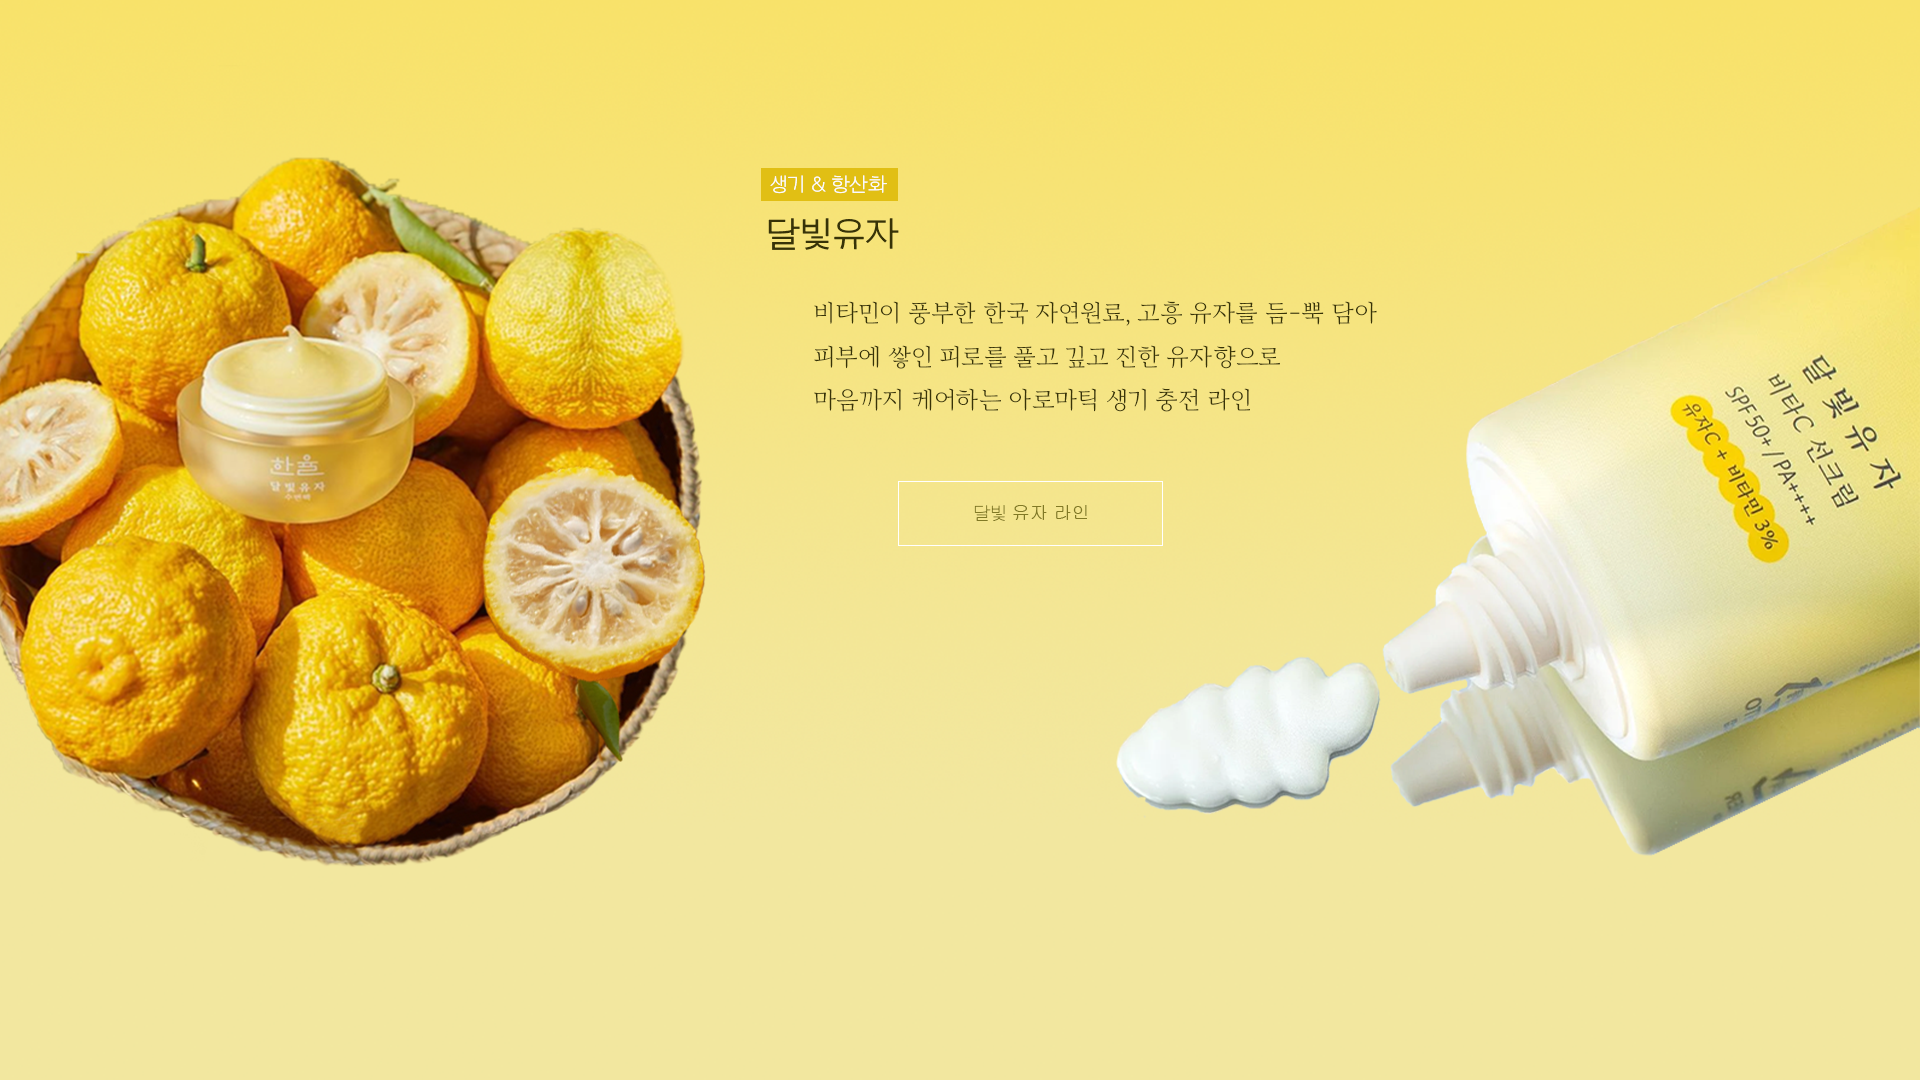
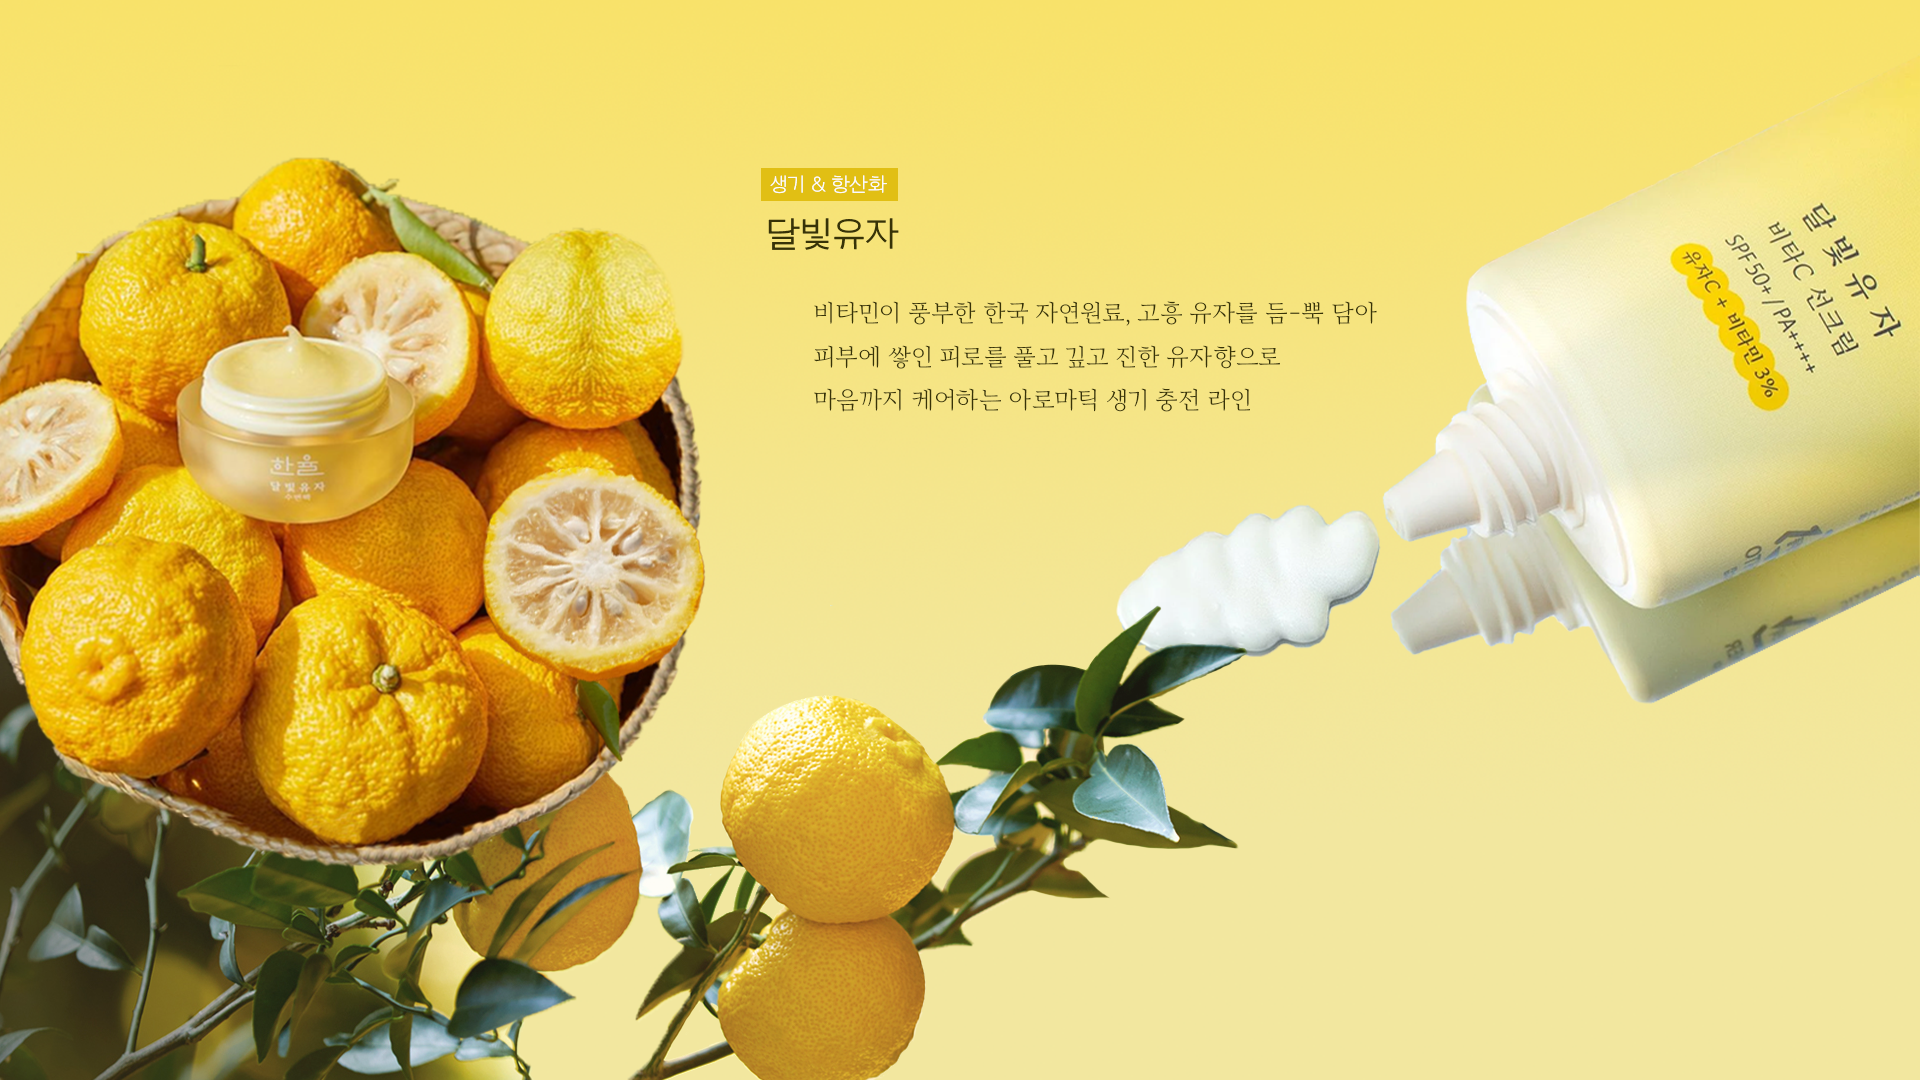
main01

Changed region(s): [[0.0, 0.1222, 1.0, 1.0], [0.5, 0.4583, 0.5625, 0.4889]]

diff --git a/index.html b/index.html
@@ -16,7 +16,7 @@
             <div class="layout">
                 <h1 class="logo">
                     <a href="index.html">
-                        <img src="contents/logo.png" alt="한율로고" id="hanyul-logo-img">
+                        <img src="contents/logo/logo.png" alt="한율로고" id="hanyul-logo-img">
                     </a>
                 </h1>
                 <nav id="menu">
@@ -32,11 +32,26 @@
         <main>
             <div class="main-banner">
                 <div class="main-slide">
-                    <img src="contents/브랜드 소개.png">
-                    <img src="contents/어린쑥.png">
-                    <img src="contents/유자.png">
-                    <img src="contents/빨간쌀.png">
-                    <img src="contents/브랜드 소개.png">
+                    <div class="main-slide-wrap">
+                        <img src="contents/브랜드 소개.png" alt="한율 브랜드 소개">
+                        <a class="about_brand btn" href="https://www.hanyul.com/kr/ko/brand/brand/brand.html">브랜드 소개</a>
+                    </div>
+                    <div class="main-slide-wrap">
+                        <img src="contents/어린쑥.png" alt="한율 베스트 어린쑥">
+                        <a class="young-artemisia btn" href="https://www.hanyul.com/kr/ko/brand/brand/brand.html">어린쑥 보러가기</a>
+                    </div>
+                    <div class="main-slide-wrap">
+                        <img src="contents/유자.png"  alt="한율 베스트 유자">
+                        <a class="yujabanner btn" href="https://www.hanyul.com/kr/ko/brand/brand/brand.html">달빛유자 보러가기</a>
+                    </div>
+                    <div class="main-slide-wrap">
+                        <img src="contents/빨간쌀.png" alt="한율 베스트 빨간쌀">
+                        <a class="redricebanner btn" href="https://www.hanyul.com/kr/ko/brand/brand/brand.html">빨간쌀 보러가기</a>
+                    </div>                    
+                    <div class="main-slide-wrap">
+                        <img src="contents/브랜드 소개.png" alt="한율 브랜드 소개">
+                        <a class="about_brand btn" href="https://www.hanyul.com/kr/ko/brand/brand/brand.html">브랜드 소개</a>
+                    </div>
                 </div>
             </div>
 
@@ -54,7 +69,8 @@
             </section>
             
             <section class="notice">
-                <img src="contents/신제품.png">
+                <img src="contents/새소식.png">
+                <img src="contents/새소식2.png">
             </section>
 
 
@@ -63,7 +79,7 @@
                     <h2>@hanyulofficial</h2>
                     <p>한율공식 인스타그램을 방문해보세요!</p>
                     <a href="https://www.hanyul.com/kr/ko/brand/hashtag-hanyul/hashtag-hanyul.html" target="_blank">
-                        <img src="contents/pixlee-gallery.png"> <span>VIEW GALLERY</span> 
+                        <img src="contents/logo/pixlee-gallery.png"> <span>VIEW GALLERY</span> 
                     </a>
                 </div>
                 <div class="social-gallery">
@@ -287,7 +303,7 @@
                 <div class="layout">
                     <div class="go-to-mall">
                         <div class="brand-logo">
-                            <img src="contents/apmall_logo.png" id="appmall_logo">
+                            <img src="contents/logo/apmall_logo.png" id="appmall_logo">
                             <p>
                                 <span class="footer_span">지금은 한율과 함께</span>
                                 <span class="footer_span">아름다워지는 시간입니다</span>
@@ -298,14 +314,63 @@
                         </div>
                     </div>
                     <div class="bar"></div>
-                    <div class="go-beauty-point"></div>
+                    <div class="go-beauty-point">
+                        <div class="brand-logo">
+                            <img src="contents/logo/beautypoint_logo.png" id="beauty-point-logo">
+                            <p>
+                                <span class="footer_span">쌓을수록 아름다워지는</span>
+                                <span class="footer_span">아모레퍼시픽 통합 멤버십</span>
+                            </p>
+                            <a class="btn" href="https://www.amoremall.com/kr/ko/display/brand/brand9?displayMenuId=brand9&brandSn=25" target="_blank">
+                                <span>뷰티포인트 소개</span>
+                            </a>
+                        </div>
+                    </div>
                     <div class="bar"></div>
-                    <div class="go-sns"></div>
+                    <div class="go-sns">
+                        <div class="sns-inner">
+                            <p>
+                                <span class="footer_span">Hanyul SNS</span>
+                                <span class="footer_span">페이스북, 인스타그램, 유튜브</span>
+                            </p>
+                            <div class="sns-logo">
+                                <a href="https://www.facebook.com/hanyul.kr" target="_blank">
+                                    <img src="contents/logo/sns-facebook.png" alt="페이스북"></a>
+                                <a href="https://www.instagram.com/hanyulofficial" target="_blank">
+                                    <img src="contents/logo/sns-instagram.png" alt="인스타그램">
+                                </a>
+                                <a href="https://www.youtube.com/user/HANYULkr" target="_blank">
+                                    <img src="contents/logo/sns-youtube.png" alt="유튜브">
+                                </a>
+                            </div>
+                        </div>
+                    </div>
                 </div>  
             </div>
             <div id="footer-linkedarea">
                 <div class="layout">
+                    <ul class="footer-links">
+                        <li class="footer-li">
+                            <a href="http://www.apgroup.com/int/ko/misc/terms/cctv-policies-and-procedures.html" target="_blank">
+                                영상정보처리기기 운영 및 관리 방침</a></li>
+                        <li class="footer-li"><a href="http://www.beautypoint.co.kr/footer/terms/agreement.html" target="_blank">
+                            서비스이용약관</a></li>
+                        <li class="footer-li"><a href="http://www.beautypoint.co.kr/footer/privacy/personal.html" target="_blank"><strong>
+                            개인정보처리방침</strong></a></li>
+                        <li class="footer-li"><a href="http://www.beautypoint.co.kr/beautypoint/about.html?siteCd=MKK" target="_blank">
+                            뷰티포인트</a></li>
+                        <li class="footer-li"><a href="/kr/ko/util/sitemap/sitemap.html">
+                            사이트맵</a></li>
+                        <li class="wa-link">
+                            <a href="http://www.wa.or.kr/board/list.asp?BoardID=0006" target="_blank">
+                                <img alt="(사)한국장애인단체총연합회 한국웹접근성인증평가원 웹 접근성 우수사이트 인증마크 (WA인증마크) (새창)" src="contents/logo/hanyul_wa_220627.png" class="wa">
+                            </a></li>
+                    </ul>
 
+                    <p class="copyright">
+                        <small>© AMOREPACIFIC CORPORATION. All rights reserved.</small>
+                        <small>© 포트폴리오용 한율 웹페이지입니다.</small>
+                    </p>
                 </div>
             </div>
         </footer>

diff --git a/index.css b/index.css
@@ -23,10 +23,14 @@ body{
     /* background-color: #dcefec; */
     background: url(contents/Artboard\ 1.png) no-repeat;
     background-size: cover;
+    height: auto;
 }
 /* header */
 header{
-    background-color: #fff;    
+    background-color: #fff;
+    position: sticky;
+    top:0 ;
+    z-index: 1000;
 }
 .layout{
     max-width: 1840px;
@@ -38,13 +42,16 @@ header{
     padding: 13px 0 17px;
     text-align: center;
     border-bottom: 1px solid #f0f0f0;
+    transition: 0.2s;
 }
     .logo a{
         display: block;
         width: 190px;
         margin: 0 auto;
     }
-
+.scroll_logo{
+    padding: 5px 0 5px;
+}
 #menu{
     height: 50px;
     text-align: center;
@@ -87,19 +94,47 @@ main{
     overflow: hidden;
     transition: 1s;
 }
+.main-slide-wrap{
+    position: relative;
+}
 .main-banner img{
     display: inline-block;
     width: 100vw;
     height: 1000px;
     object-fit: cover;
     object-position: center 18%;
-    
 }
+.main-slide-wrap a{
+    position: absolute;
+    z-index: 50;
+    font-size: 18px;
+    padding: 1em 4.2em !important;
+}
+.main-slide-wrap a:hover{
+    color:#fff;
+}
+.about_brand{
+    top: 47%;
+    left: 50%;
+}
+.young-artemisia{
+    top: 43%;
+    left: 40%;
+}
+.yujabanner{
+    top: 47%;
+    left: 43%;
+}
+.redricebanner{
+    top: 55%;
+    left: 45%;
+}
+
 /* 신제품 */
 .new-item, .notice, .social, .movie, .line{
     max-width: 100%;
     text-align: center;
-    margin-bottom: 30px;
+    margin-bottom: 100px;
 }
 .new-item-wrap{
     display: flex;
@@ -148,8 +183,12 @@ main{
     color: #e0e3cd;
 }
 /* 새소식 */
+.notice{
+    margin-bottom: 150px;
+}
 .notice img{
-    width: 90%;
+    margin: 0 30px;
+    width: 30%;
 }
 
 /* 소셜 인스타 */
@@ -409,11 +448,9 @@ footer{
     display: inline-block;
     vertical-align: top;
     position: relative;
-
 }
-
 .bar{   
-    display: inline;
+    display: inline-block;
     zoom: 1;
     margin: 0 2.5%;
     border-left: 1px solid #585858;
@@ -425,13 +462,19 @@ footer{
     position: relative;
     font-size: 12px;
     text-align: left;
-    padding-left: 150px;
+    padding-left: 130px;
 }
 #appmall_logo{
     position: absolute;
     top: 13px;
-    left: 65px;
+    left: 48px;
     height: 15px;
+}
+#beauty-point-logo{
+    position: absolute;
+    top: 13px;
+    left: 40px;
+    height: 20px;
 }
 .brand-logo p{
     display: inline-block;
@@ -458,8 +501,31 @@ footer{
 .btn:hover{
     background-color: #999;
 }
-
-
+.sns-inner{
+    padding-right:80px;
+    font-size: 14px;
+    color: #fff;
+    margin: 1em 1em 1em 0;
+}
+.sns-logo{
+    position: absolute;
+    top: 13px;
+    right: 0;
+}
+.sns-logo a{
+    display: inline-block;
+    margin-left: 4px;
+    color: #585858;
+    transition: 0.3s;
+}
+.sns-logo a:hover{
+    transform: scale(1.04);
+}
+.sns-logo a img{
+    border: 0;
+    vertical-align: top;
+    max-width: 22px;
+}
 #footer-linkedarea{
     padding-bottom: 20px;
     background: #fff;
@@ -468,6 +534,27 @@ footer{
 #footer-linkedarea .layout{
     height: 95px;
     border-top: 1px solid #f0f0f0;
-    overflow: hidden;
     padding-top: 20px;
+}
+
+.footer-li{
+    display: inline-block;
+    margin: 0 10px;
+    padding-left: 21px;
+    height: 1em;
+
+}
+.footer-li a{
+    margin-top: 3px;
+    color: #585858;
+    font-size: 0.8em;
+}
+.wa-link{
+    display: inline-block;
+    margin-left: 10px;
+    vertical-align: middle;
+}
+footer .copyright{
+    margin: 0;
+    padding: 0.5em 0 2em;
 }

diff --git a/index.js b/index.js
@@ -1,4 +1,6 @@
 $(function(){
+    var header_logo;
+
     var currentIndex = 0;
     var currentX = 0;
     var main_slide;
@@ -6,19 +8,29 @@ $(function(){
     var main_size;
 
     Init();
+    scrollHeader();
     Event();
 
     function Init(){
+        header_logo = $(".logo");
         main_slide = $(".main-slide");
-        main_size = $(".main-slide").children('img').size();
+        main_size = $(".main-slide").children('.main-slide-wrap').size();
+    }
+    
+    function scrollHeader(){
+        if($(window).scrollTop()>0){
+            header_logo.addClass('scroll_logo');
+        }else{
+            header_logo.removeClass('scroll_logo');
+        }
     }
 
     function MoveBanner(index){
-        main_width = main_slide.children('img').width();
+        main_width = main_slide.children('.main-slide-wrap').width();
 
         currentIndex = index;
         currentX = main_width*currentIndex;
-        main_slide.css({'transform':'translateX('+ -currentX+'px)'});
+        main_slide.stop().css({'transform':'translateX('+ -currentX+'px)'});
         if(main_slide.css('display') === 'none'){
             main_slide.stop().fadeIn();
         }
@@ -41,6 +53,7 @@ $(function(){
     MainBannerSlide();
 
     function Event(){
+        $(window).on('scroll',scrollHeader);
     }
 
 
